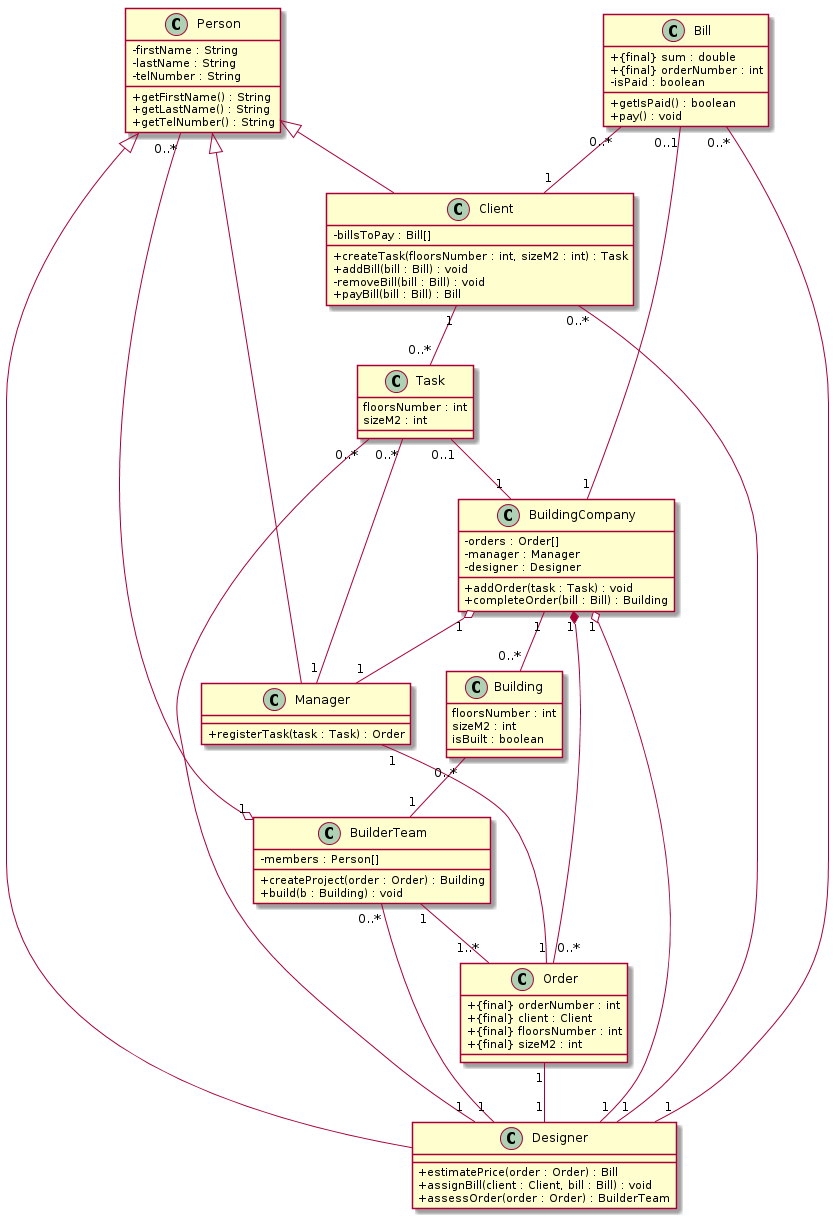
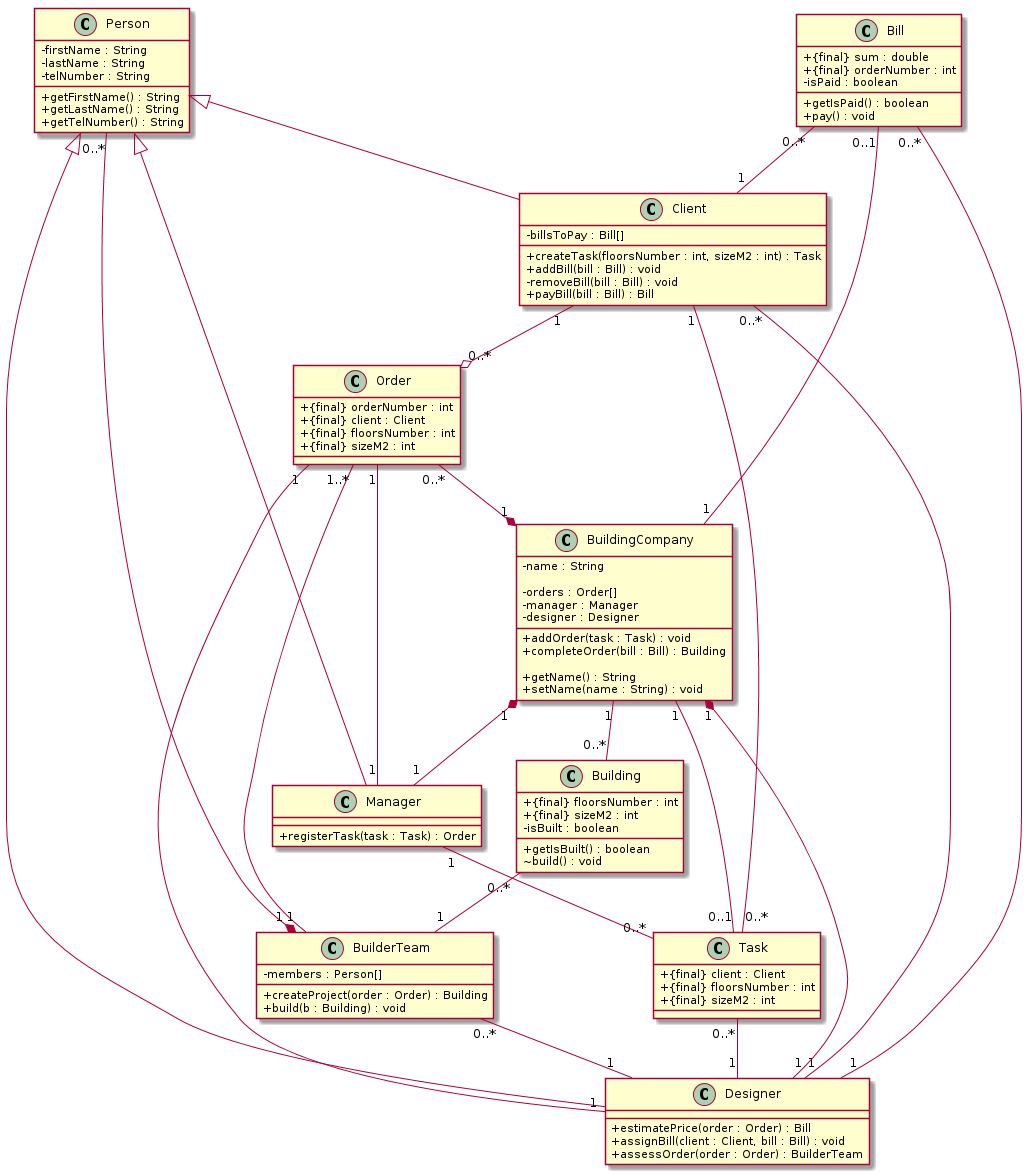
Lab4 classes added, partial implementation, UML diagram modified

diff --git a/Lab4/src/sc/lab4/company/BuildingCompany.java b/Lab4/src/sc/lab4/company/BuildingCompany.java
@@ -1,0 +1,78 @@
+package sc.lab4.company;
+
+import sc.lab4.Bill;
+import sc.lab4.Building;
+import sc.lab4.Task;
+
+public class BuildingCompany {
+	private String name;
+
+	private Order[] orders = new Order[10];
+
+	private Manager manager;
+	private Designer designer;
+
+	// Constructors
+
+	public BuildingCompany(String name) {
+		this.name = name;
+
+		manager = new Manager(null, null, null, this);
+		designer = new Designer(null, null, null);
+	}
+
+	public BuildingCompany(String name, Manager manager, Designer designer) {
+		this.name = name;
+		this.manager = manager;
+		this.designer = designer;
+	}
+
+	// Process task and add order to array
+
+	public void addOrder(Task task) {
+		Order order = null;
+
+		try {
+			order = manager.registerTask(task);
+		} catch (Exception e) {
+			System.out.println(e);
+			return;
+		}
+
+		orders[order.orderNumber] = order;
+		System.out.printf("Order number %d added succesfully.", order.orderNumber);
+	}
+
+	// Complete order which number is specified in paid bill
+
+	public Building completeOrder(Bill bill) {
+		if (bill == null || bill.isPaid()) {
+			System.out.printf("The bill for order %d doesn't exist or is not paid!", bill.orderNumber);
+			return null;
+		}
+
+		return null;
+	}
+
+	// Get index of the first unassigned element in orders
+
+	int getFreeElement() {
+		for (int i = 0; i < orders.length; i++) {
+			if (orders[i] == null) {
+				return i;
+			}
+		}
+
+		return -1;
+	}
+
+	// Accessor & mutator methods
+
+	public String getName() {
+		return name;
+	}
+
+	public void setName(String name) {
+		this.name = name;
+	}
+}

diff --git a/Lab4/src/sc/lab4/Person.java b/Lab4/src/sc/lab4/Person.java
@@ -1,0 +1,39 @@
+package sc.lab4;
+
+public class Person {
+	private String firstName;
+	private String lastName;
+	private String telNumber;
+
+	public Person(String firstName, String lastName, String telNumber) {
+		this.firstName = firstName;
+		this.lastName = lastName;
+		this.telNumber = telNumber;
+	}
+
+	// Accessor and mutator methods
+
+	public String getFirstName() {
+		return firstName;
+	}
+
+	public void setFirstName(String firstName) {
+		this.firstName = firstName;
+	}
+
+	public String getLastName() {
+		return lastName;
+	}
+
+	public void setLastName(String lastName) {
+		this.lastName = lastName;
+	}
+
+	public String getTelNumber() {
+		return telNumber;
+	}
+
+	public void setTelNumber(String telNumber) {
+		this.telNumber = telNumber;
+	}
+}

diff --git a/Lab4/src/sc/lab4/company/Manager.java b/Lab4/src/sc/lab4/company/Manager.java
@@ -1,0 +1,23 @@
+package sc.lab4.company;
+
+import sc.lab4.Person;
+import sc.lab4.Task;
+
+public class Manager extends Person {
+
+	private BuildingCompany placeOfWork;
+
+	public Manager(String firstName, String lastName, String telNumber, BuildingCompany placeOfWork) {
+		super(firstName, lastName, telNumber);
+		this.placeOfWork = placeOfWork;
+	}
+
+	public Order registerTask(Task task) throws Exception {
+		int orderIndex = placeOfWork.getFreeElement();
+		if (orderIndex == -1) {
+			throw new Exception(System.out.format("%s is busy, try again later.", placeOfWork.getName()).toString());
+		}
+
+		return new Order(orderIndex, task.client, task.floorsNumber, task.sizeM2);
+	}
+}

diff --git a/Lab4/src/sc/lab4/company/Order.java b/Lab4/src/sc/lab4/company/Order.java
@@ -1,0 +1,17 @@
+package sc.lab4.company;
+
+import sc.lab4.Client;
+
+public class Order {
+	public final int orderNumber;
+	public final Client client;
+	public final int floorsNumber;
+	public final int sizeM2;
+
+	Order(int orderNumber, Client client, int floorsNumber, int sizeM2) {
+		this.orderNumber = orderNumber;
+		this.client = client;
+		this.floorsNumber = floorsNumber;
+		this.sizeM2 = sizeM2;
+	}
+}

diff --git a/Lab4/src/sc/lab4/Bill.java b/Lab4/src/sc/lab4/Bill.java
@@ -1,0 +1,20 @@
+package sc.lab4;
+
+public class Bill {
+	public final double sum;
+	public final int orderNumber;
+	private boolean paid; // true if bill has been paid
+
+	public Bill(double sum, int orderNumber) {
+		this.sum = sum;
+		this.orderNumber = orderNumber;
+	}
+
+	public boolean isPaid() {
+		return paid;
+	}
+
+	public void pay() {
+		paid = true;
+	}
+}

diff --git a/Lab4/src/sc/lab4/Task.java b/Lab4/src/sc/lab4/Task.java
@@ -1,0 +1,13 @@
+package sc.lab4;
+
+public class Task {
+	public final Client client;
+	public final int floorsNumber;
+	public final int sizeM2;
+
+	public Task(Client client, int floorsNumber, int sizeM2) {
+		this.client = client;
+		this.floorsNumber = floorsNumber;
+		this.sizeM2 = sizeM2;
+	}
+}

diff --git a/Lab4/src/sc/lab4/company/Designer.java b/Lab4/src/sc/lab4/company/Designer.java
@@ -1,0 +1,9 @@
+package sc.lab4.company;
+
+import sc.lab4.Person;
+
+public class Designer extends Person {
+	public Designer(String firstName, String lastName, String telNumber) {
+		super(firstName, lastName, telNumber);
+	}
+}

diff --git a/Lab4/src/sc/lab4/Lab4.java b/Lab4/src/sc/lab4/Lab4.java
@@ -1,0 +1,10 @@
+package sc.lab4;
+
+public class Lab4 {
+
+	public static void main(String[] args) {
+		// TODO Auto-generated method stub
+
+	}
+
+}

diff --git a/Lab4/src/sc/lab4/company/BuilderTeam.java b/Lab4/src/sc/lab4/company/BuilderTeam.java
@@ -1,0 +1,5 @@
+package sc.lab4.company;
+
+public class BuilderTeam {
+
+}

diff --git a/Lab4/src/sc/lab4/Building.java b/Lab4/src/sc/lab4/Building.java
@@ -1,0 +1,5 @@
+package sc.lab4;
+
+public class Building {
+
+}

diff --git a/Lab4/src/sc/lab4/Client.java b/Lab4/src/sc/lab4/Client.java
@@ -1,0 +1,5 @@
+package sc.lab4;
+
+public class Client {
+
+}
